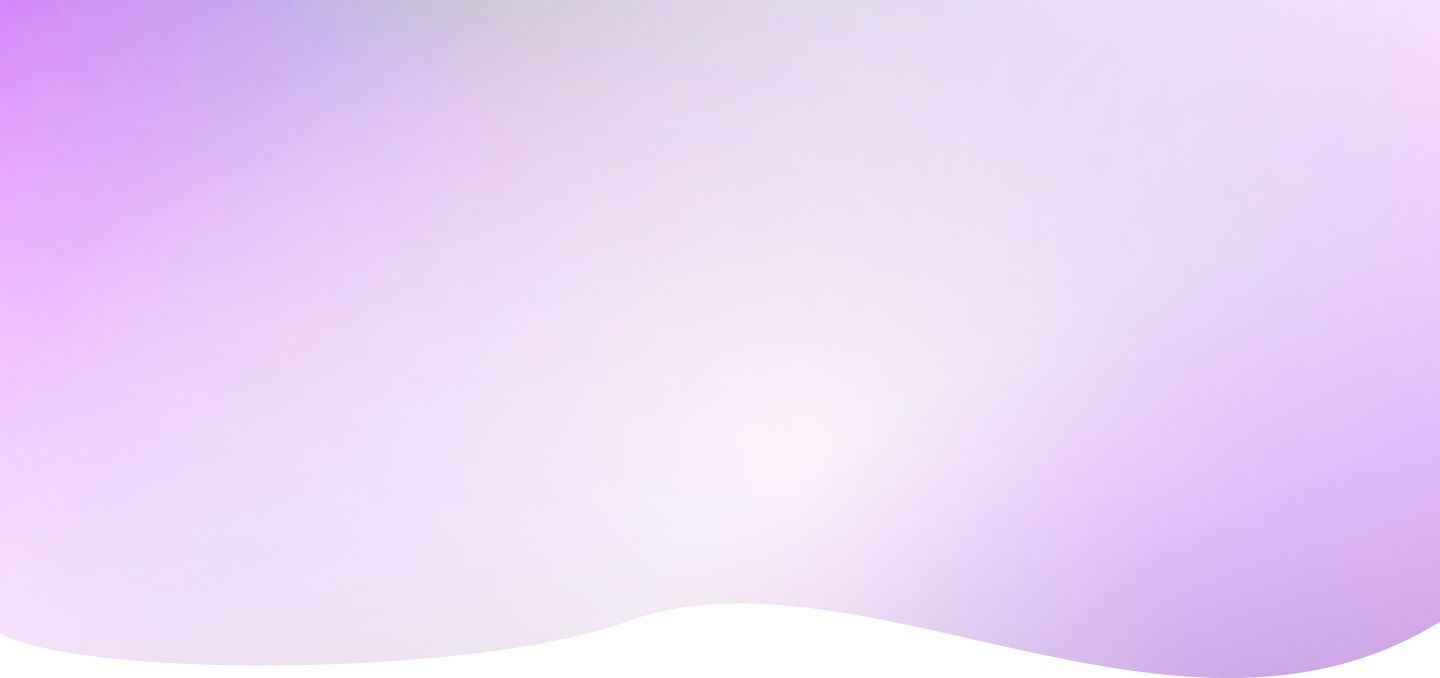
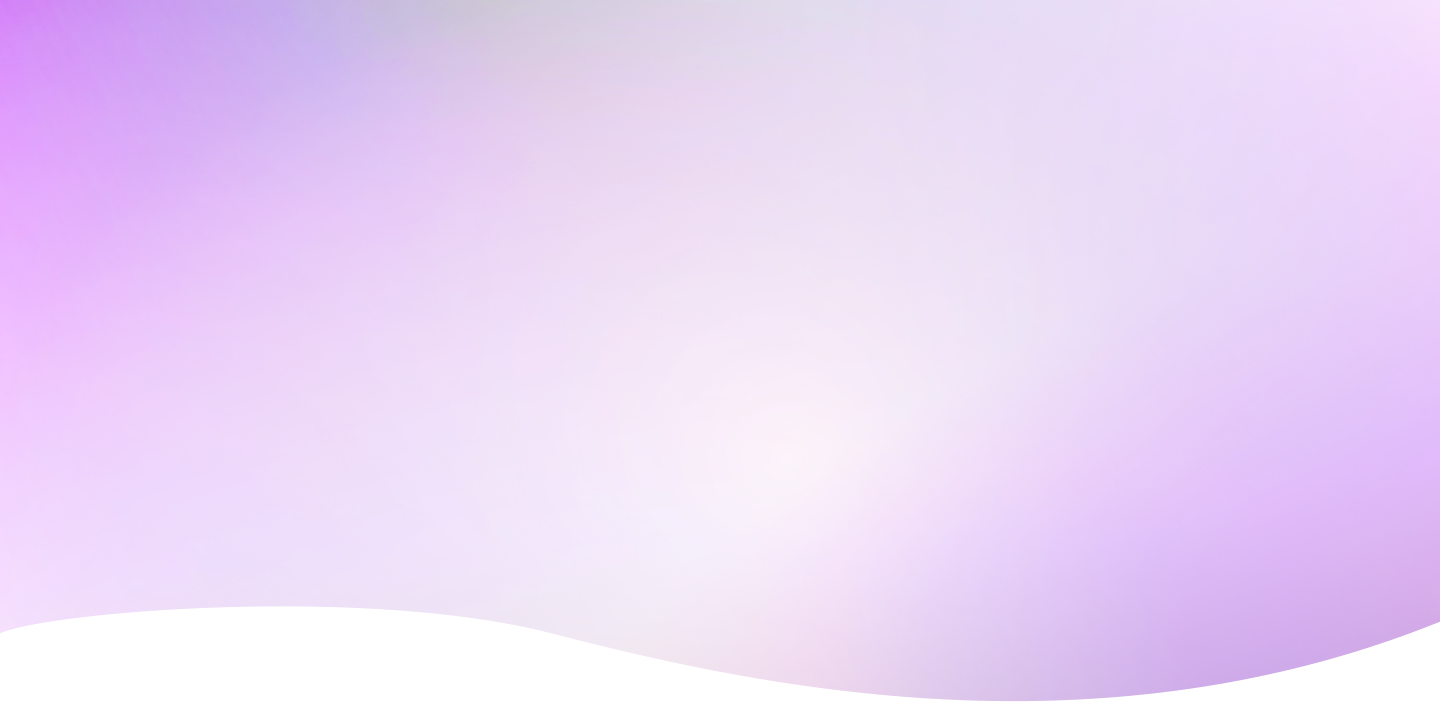
modified hero img

Changed region(s): [[0.4375, 0.8673, 1.0, 1.0], [0.0, 0.8673, 0.4062, 0.9912]]

diff --git a/src/app/components/Hero.jsx b/src/app/components/Hero.jsx
@@ -9,8 +9,8 @@ export default function Hero() {
     <div className="pt-5 min-[332px]:pt-0 tablet-s:pt-5 tablet-xl:pt-10 tablet-xl:h-[82vh] desktop-l:pt-8 mb-10">
       <div>
         <Image
-          className="w-full absolute top-0 -z-20 min-h-[700px] h-[125vh] min-[515px]:h-[785px] tablet-s:h-[880px] min-[600px]:h-[900px] min-[630px]:h-[950px] min-[690px]:h-[980px] tablet-l:h-[1020px] tablet-xl:hidden"
-          src="/hero-bg.svg"
+          className="w-full absolute top-0 -z-20 min-h-[700px] h-[130%] min-[515px]:h-[785px] tablet-s:h-[880px] min-[600px]:h-[900px] min-[630px]:h-[950px] min-[690px]:h-[980px] tablet-l:h-[1020px] tablet-xl:hidden"
+          src="/hero-bg.webp"
           width={320}
           height={700}
           alt=""
